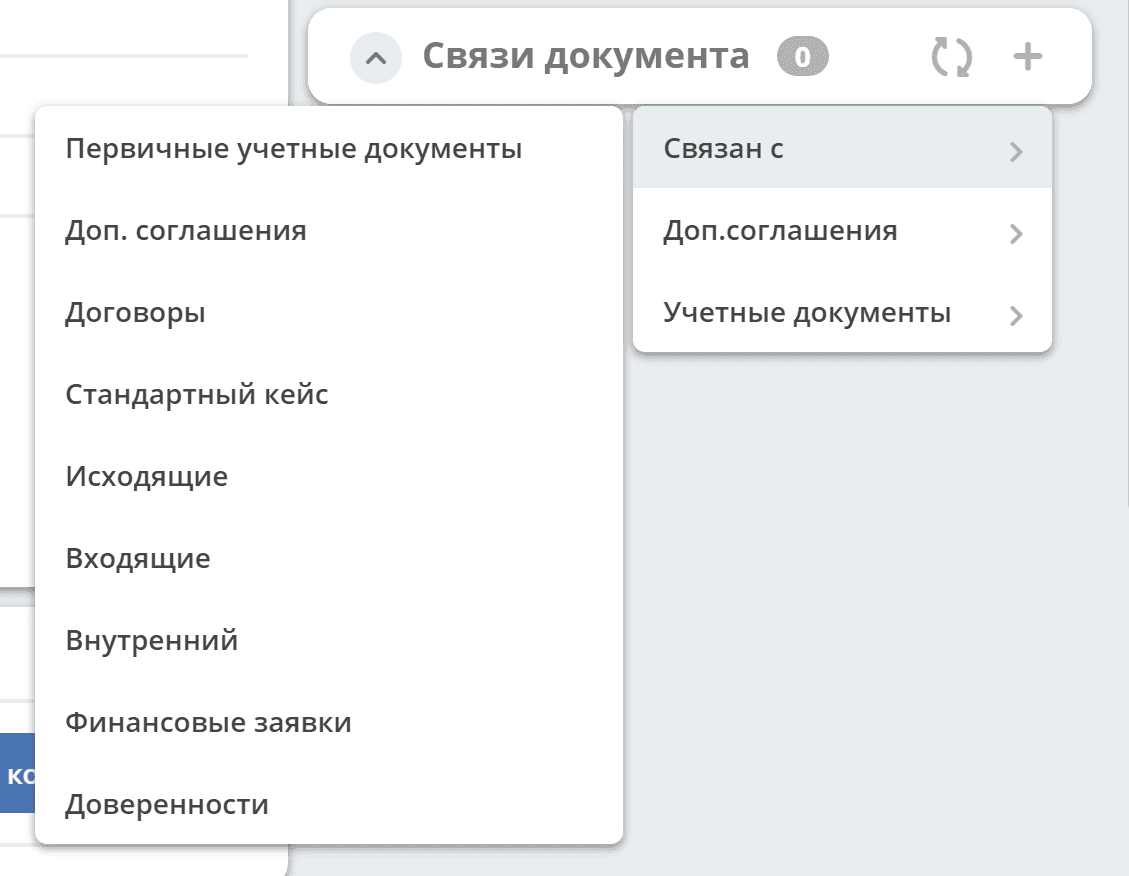
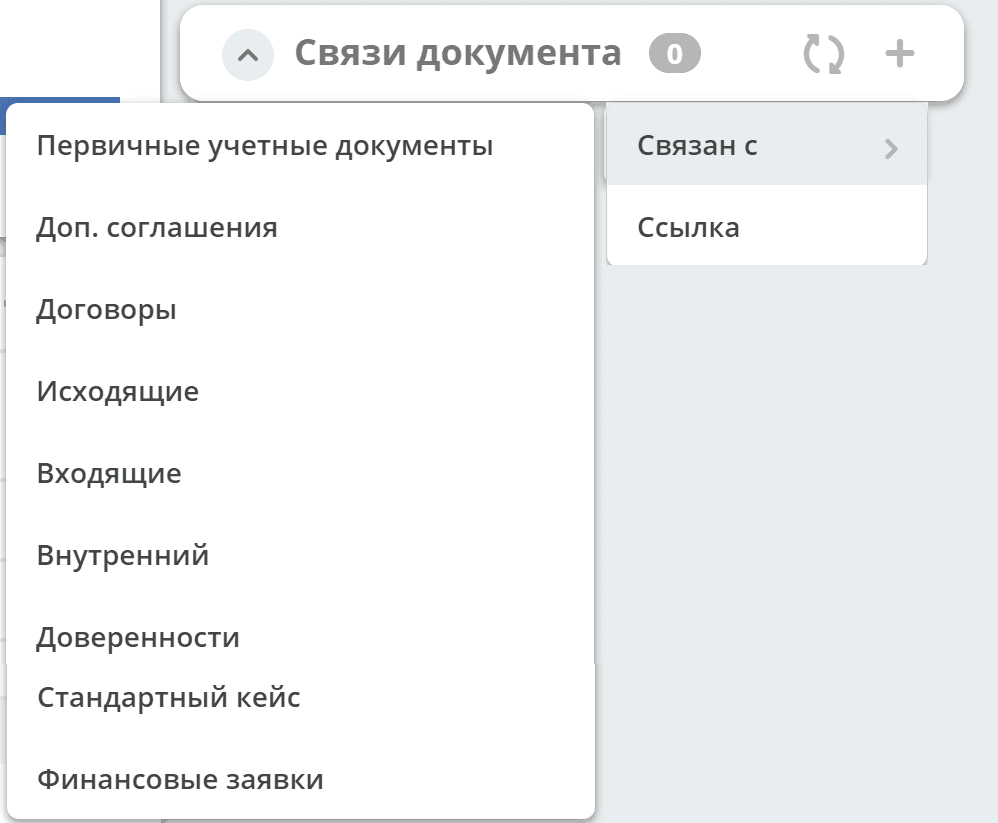
ECOSENT-2466 Stages ECOSUI-2288 Dos association links

diff --git a/docs/admin/audit.rst b/docs/admin/audit.rst
@@ -221,7 +221,7 @@ AuthorityFilter
 Описание аудита
 -----------------
 
-Модель события аудита:
+Модель события аудита
 ~~~~~~~~~~~~~~~~~~~~~~
 
 **id:** UUID // уникальный идентификатор события. Автоматически генерируется для каждого события.
@@ -248,7 +248,7 @@ AuthorityFilter
 
 **appInstanceId:** String // инстанс приложения, в котором произошло событие
 
-Модель ErrorInfo:
+Модель ErrorInfo
 ~~~~~~~~~~~~~~~~~~~~~~
 
 **message:** String // текст ошибки. Может формироваться произвольным образом и напрямую зависит от участка кода где эта ошибка возникла. Если нужно обрабатывать и отлавливать определенные типы ошибок, то следует сформировать список таких ошибок и сделать доработку.
@@ -256,7 +256,7 @@ AuthorityFilter
 **javaClass:** String // java класс ошибки. Так же как и message может быть любым, но с привязкой к существующим классам в системе.
 
 
-Типы событий:
+Типы событий
 ~~~~~~~~~~~~~
 
 records.query-records
@@ -268,7 +268,7 @@ records.query-records
 
 **query:** RecordsQuery // Поисковый запрос за данными (записями) в источнике данных.
 
-**records:** List<EntityRef> // Список записей, который вернулись в результате запроса. Описание **EntityRef** см. ниже
+**records:** List<EntityRef> // Список записей, который вернулись в результате запроса. :ref:`Описание EntityRef<EntityRef>`
 
 **attributes:** Map<String, String> // Список атрибутов, которые клиент запросил у записей из списка records.
 
@@ -279,7 +279,7 @@ records.get-records-atts
 
 **sourceId:** String // Идентификатор источника данных. По нему можно сгруппировать или отфильтровать все операции (чтение, изменение, создание, удаление) в определенном источнике данных. **sourceId** всегда является частью record и если отдельное поле для фильтрации и группировки ``query/get-atts/mutate/delete`` действий не требуется, то можно **sourceId** убрать из события.
 
-**record:** EntityRef // Ссылка на запись в источнике данных. Описание **EntityRef** см. ниже
+**record:** EntityRef // Ссылка на запись в источнике данных. :ref:`Описание EntityRef<EntityRef>`
 
 **attributes:** Map<String, String> // Атрибуты, которые мы запрашиваем у записи
 
@@ -290,7 +290,7 @@ records.mutate-record
 
 **sourceId:** String // Идентификатор источника данных. По нему можно сгруппировать или отфильтровать все операции (чтение, изменение, создание, удаление) в определенном источнике данных. **sourceId** всегда является частью record и если отдельное поле для фильтрации и группировки ``query/get-atts/mutate/delete`` действий не требуется, то можно sourceId убрать из события.
 
-**record:** EntityRef // Ссылка на запись в источнике данных. Если record имеет вид ``"{{appName}}/{{sourceId}}@"`` (т.е. после знака @ ничего нет), то это означает, что пришел запрос на создание новой сущности.  Описание **EntityRef** см. ниже
+**record:** EntityRef // Ссылка на запись в источнике данных. Если record имеет вид ``"{{appName}}/{{sourceId}}@"`` (т.е. после знака @ ничего нет), то это означает, что пришел запрос на создание новой сущности. :ref:`Описание EntityRef<EntityRef>`
 
 **attributes:** Map<String, Object> // Атрибуты, которые отправлены от клиента для обновления. Т.е. если в **attributes** мы видим {"field0": "field1"}, то это означает, что клиент пытается изменить поле "field0" присвоив ему значение "field1".
 
@@ -303,10 +303,12 @@ records.delete-records
 
 **sourceId:** String // Идентификатор источника данных. По нему можно сгруппировать или отфильтровать все операции (чтение, изменение, создание, удаление) в определенном источнике данных. sourceId всегда является частью каждого элемента в records и если отдельное поле для фильтрации и группировки query/get-atts/mutate/delete действий не требуется, то можно sourceId убрать из события.
 
-**records:** List<EntityRef> // Список записей для удаления. Описание **EntityRef** см. ниже
+**records:** List<EntityRef> // Список записей для удаления. :ref:`Описание EntityRef<EntityRef>`
 
-Описание EntityRef:
-"""""""""""""""""""""""""
+.. _EntityRef:
+
+Описание EntityRef
+~~~~~~~~~~~~~~~~~~~
 
 **EntityRef** - это уникальный идентификатор сущности в системе ECOS. Он формируется по следующему шаблону:
 
@@ -319,8 +321,8 @@ records.delete-records
 **localId** - это локальный идентификатор сущности в пределах источника данных. Отсутствие **localId** для мутации означает создание новой записи.
 
 
-Описание атрибутов для загрузки:
-"""""""""""""""""""""""""""""""""
+Описание атрибутов для загрузки
+~~~~~~~~~~~~~~~~~~~~~~~~~~~~~~~~~~~~~~~
 
 Атрибуты для загрузки могут иметь следующий вид:
 

diff --git a/docs/settings_kb/Типы_данных.rst b/docs/settings_kb/Типы_данных.rst
@@ -139,15 +139,17 @@
 
 :ref:`Атрибуты<ecos-model_label>`– характеристика, определяющая свойства объекта.
 
-:ref:`Роли<roles_statuses>` – роли, которые участвуют в работе с объектом,
+:ref:`Роли<roles_statuses>` – роли, которые участвуют в работе с объектом.
 
-:ref:`Статусы<roles_statuses>`– статусы, по которым объект будет перемещаться по мере выполнения бизнес-процесса
+:ref:`Статусы<roles_statuses>`– статусы, по которым объект будет перемещаться по мере выполнения бизнес-процесса.
+
+:ref:`Стадии<stages>`– этапы жизненного цикла документа. 
 
 :ref:`Варианты создания<create>` – настройка поддержки выбора варианта создания после выбора типа
 
 :ref:`Связи<datatypes_associations>` – настраиваются для отображения, добавления и удаления связанных объектов в виджете «Связи»» на карточке объекта.
 
-:ref:`Конфигурация контента<datatypes_content>` – ???
+:ref:`Конфигурация контента<datatypes_content>` – настройки работы с содержимым (контентом).
 
 
 .. _data_types_main:
@@ -777,6 +779,46 @@ ECOS atributes Permissions
 - имя свойства -  **_status**, 
 - скрыть и заблокировать на ввод, если необходимо не отображать на форме.
 
+.. _stages:
+
+Стадии
+~~~~~~
+
+**Стадии** — этапы жизненного цикла документа. В каждую стадию входит один или несколько статусов.
+
+ .. image:: _static/data_types/tab_stages.png
+       :width: 600
+       :align: center
+
+Прежде, чем приступить к работе над стадиями, необходимо заполнить :ref:`Статусы<roles_statuses>`.
+
+.. list-table:: 
+      :widths: 10 30 30 30
+      :header-rows: 1
+      :align: center
+      :class: tight-table 
+
+      * - п/п
+        - Наименование
+        - Описание
+        - Пример заполнения
+      * - 1
+        - **Название стадии**
+        - Наименование стадии
+        - testStage (camel case)
+      * - 2
+        - **Статусы**
+        - Перечень статусов, входящих в стадию
+        - Выбирается из списка предлагаемых статусов
+
+Каждый статус может быть назначен только на одну стадию:
+
+ .. image:: _static/data_types/tab_stages_2.png
+       :width: 600
+       :align: center
+
+Стадии отображаются в виджете :ref:`виджете "Стадии"<widget_stages>`
+
 .. _create:
 
 Варианты создания
@@ -865,16 +907,26 @@ ECOS atributes Permissions
            | Как правило это ассоциация из вкладки "Атрибуты". Если не задано то используется значение поля ID.
       * - 4
         - **Направление связи**
-        - | определяет какие связи отображать в виджете связей. Любая связь строится по принципу SOURCE -> TARGET
-          | - Если мы выставляем направление SOURCE, то при открытии карточки TARGET мы увидим нашу связь. При открытии карточки SOURCE мы ничего не увидим.
-          | - Tсли мы выставляем направление TARGET, то при открытии карточки TARGET мы ничего не увидим. При открытии карточки SOURCE мы увидим нашу связь
-          | - Если выставить BOTH, то мы и на карточке SOURCE и на карточке TARGET увидим нашу связь
+        - | определяет какие связи отображать в виджете связей. Любая связь строится по принципу **SOURCE -> TARGET**
+          | - **SOURCE** - обратное к **target** связь у источника. При открытии карточки **TARGET** мы увидим нашу связь. При открытии карточки **SOURCE** мы ничего не увидим.
+          | - **TARGET** - связь отображается только у документа, который хотим привязать. При открытии карточки **TARGET** мы ничего не увидим. При открытии карточки **SOURCE** мы увидим нашу связь.
+          | - **BOTH** - двухсторонняя связь. И на карточке **SOURCE** и на карточке **TARGET** увидим нашу связь.
       * - 5
         - **Связанный тип**
         - тип сущностей, с которыми мы можем связать нашу ноду
       * - 6
         - **Журналы**
-        - список журналов, которые можно использовать для создания новой связи
+        - список журналов, которые можно использовать для создания новой связи. Если необходимо создавать связи не с одним определенным типом.
+
+.. image:: _static/data_types/association_example.png
+       :width: 600
+       :align: center
+
+Для добавления возможности связать документ с простой ссылкой (**Id** - webLinks, **Направление связи** - TARGET):
+
+.. image:: _static/data_types/association_example_weblink.png
+       :width: 600
+       :align: center
 
 **Связи (associations)** настраиваются для отображения, добавления и удаления связанных объектов в виджете Формы :ref:`«Связи документов»<widget_doc_associations>` на карточке объекта.
 

diff --git a/docs/case_sample/new_user.rst b/docs/case_sample/new_user.rst
@@ -18,7 +18,7 @@
        :width: 400
        :align: center
 
-Для входа в Keycloack используйте следующие логин и пароль: **admin/VeryStrongPassword**
+Для входа в Keycloack используйте логин и пароль: **admin/VeryStrongPassword**
 
 
  .. image:: _static/new_user/User_3.png
@@ -65,15 +65,13 @@
        :width: 600
        :align: center
 
-Введите обязательно имя и электронную почту, заполните остальные поля при необходимости:
+Введите обязательно **имя** и **электронную почту**, заполните остальные поля при необходимости:
 
  .. image:: _static/new_user/User_9.png
        :width: 600
        :align: center
 
-Далее добавьте пользователя в **Группы** EVERYONE и _orgstruct_home_
-
-Для этого необходимо нажать **Выбрать** и выбрать группы **EVERYONE** и **_orgstruct_home_**:
+Далее пользователей необходимо добавить в **Группы** EVERYONE и **_orgstruct_home_** - нажмите **Выбрать** и выберите группы **EVERYONE** и **_orgstruct_home_**:
 
  .. image:: _static/new_user/User_10.png
        :width: 600

diff --git a/docs/admin/configuration.rst b/docs/admin/configuration.rst
@@ -30,7 +30,7 @@
 
 **Конфигурация ECOS** - это артефакт, который позволяет описывать некоторые параметры системы с возможностью удобно использовать их значения как в коде так и в интерфейсе для изменения параметров без перезагрузки сервера.
 
-Расположение артефактов: resources/eapps/artifacts/app/config
+Расположение артефактов: ``resources/eapps/artifacts/app/config``
 
 Поддерживаемые форматы: **yml**, **yaml**, **json**
 
@@ -38,7 +38,7 @@
 
 Можно использовать: в любом приложении
 
-Доступ в интерфейсе есть у администраторов через инструменты: **Левое меню → Инструменты → Управление системой → Конфигурация ECOS**:abbr:
+Доступ в интерфейсе есть у администраторов через инструменты: **Левое меню → Инструменты → Управление системой → Конфигурация ECOS**:
 
  .. image:: _static/configuration/config_journal.png
        :width: 600

diff --git a/docs/introduction/admin.rst b/docs/introduction/admin.rst
@@ -17,11 +17,11 @@
  
 В правой части представлено меню с разделами для конфигурации и настройки системы:
 
-      * Управление системой
-      * Управление процессами
-      * Модель
-      * Конфигурация UI
-      * Конфигурация уведомлений
+      * Управление системой;
+      * Управление процессами;
+      * Модель;
+      * Конфигурация UI;
+      * Конфигурация уведомлений.
 
 Интерфейс раздела администратора
 --------------------------------

diff --git a/docs/introduction/datalists.rst b/docs/introduction/datalists.rst
@@ -41,3 +41,4 @@
 
     4.	Нажать кнопку **Применить**. 
 
+Подробно о :ref:`создании справочников<dataset_sample>`

diff --git a/docs/case_sample/offer.rst b/docs/case_sample/offer.rst
@@ -64,6 +64,8 @@
        :width: 600
        :align: center
 
+.. _dataset_sample:
+
 Справочники
 ~~~~~~~~~~~~
 
